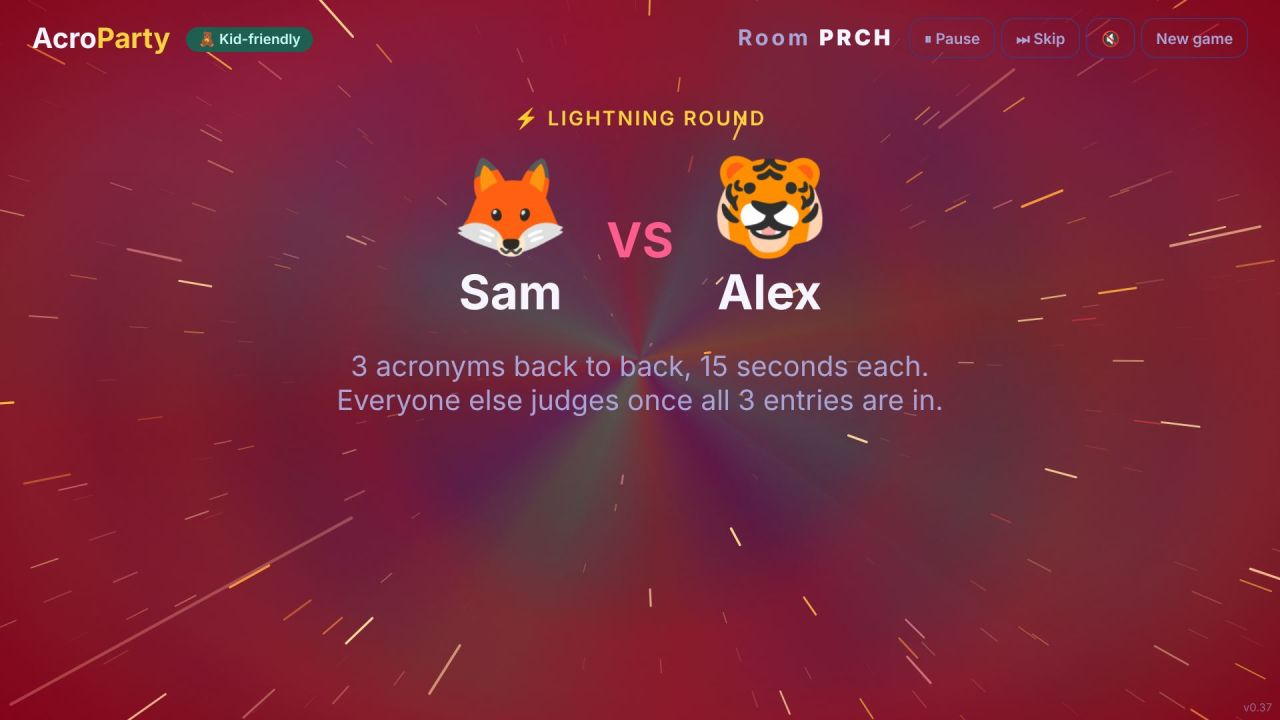
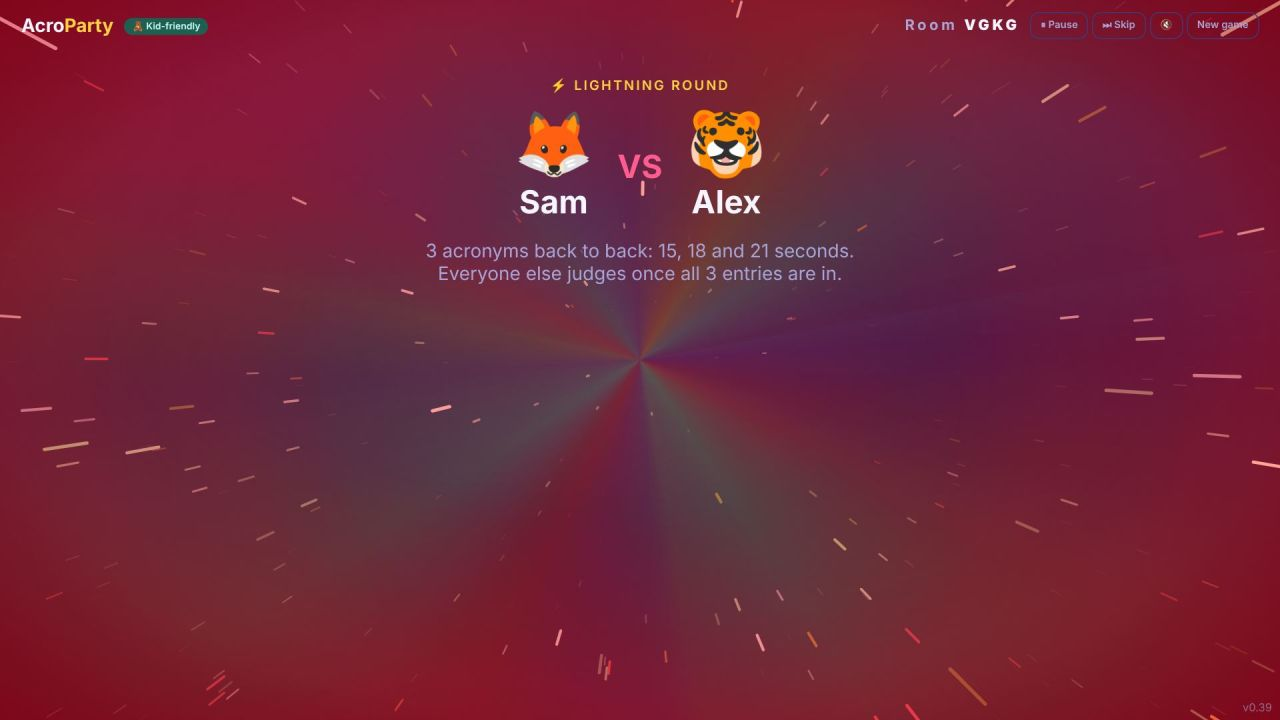
Add files via upload

diff --git a/public/play.js b/public/play.js
@@ -106,16 +106,38 @@
     });
   }
 
+  function onGone(why) {
+    if (!seat) return;
+    const code = seat.code;
+    Acro.store.del('acro-player');
+    seat = null;
+    if (window.KeepAwake) KeepAwake.disable();
+    showCode(why === 'room' ? '' : code, why === 'room' ? 'That game has ended.' : 'Your seat expired. Join again.');
+  }
+
   function connect() {
     if (disconnect) disconnect();
     app.innerHTML = '<div class="middle muted">Connecting…</div>';
-    disconnect = Acro.connect({ code: seat.code, role: 'player', token: seat.token }, onState, (why) => {
-      const code = seat.code;
-      Acro.store.del('acro-player');
-      seat = null;
-      showCode(why === 'room' ? '' : code, why === 'room' ? 'That game has ended.' : 'Your seat expired. Join again.');
-    });
+    renderedKey = null;
+    disconnect = Acro.connect({ code: seat.code, role: 'player', token: seat.token }, onState, onGone);
+    // Keep the phone's screen on while playing (see keepawake.js).
+    if (window.KeepAwake) KeepAwake.enable();
   }
+
+  // Coming back to the game (phone unlocked, switched back from another app, or the network came back):
+  // the old connection is often dead by then, so open a fresh one right away instead of waiting for it to
+  // time out. The screen stays as it is (including anything typed), and updates as soon as the game answers.
+  let lastStateAt = Date.now();
+  function resync() {
+    if (!seat) return;
+    if (disconnect) disconnect();
+    disconnect = Acro.connect({ code: seat.code, role: 'player', token: seat.token }, onState, onGone);
+  }
+  document.addEventListener('visibilitychange', () => {
+    if (document.visibilityState === 'visible' && Date.now() - lastStateAt > 2000) resync();
+  });
+  window.addEventListener('pageshow', (e) => { if (e.persisted) resync(); });
+  window.addEventListener('online', resync);
 
   // ---------- game screens ----------
   function onState(s) {
@@ -132,6 +154,7 @@
       return;
     }
     state = s;
+    lastStateAt = Date.now();
     document.getElementById('paused').classList.toggle('hidden', !s.paused);
     top.innerHTML = `<div class="me"><span class="avatar">${s.me.avatar}</span><span>${esc(s.me.name)}</span></div>
       <span class="badge ${s.mode}">${s.mode === 'kid' ? '🧸' : '18+'}</span><span class="score">${s.me.score} pts</span>
@@ -217,10 +240,10 @@
 
     bonus_intro: (s) => {
       const [a, b] = s.bonus.finalists;
-      const secs = s.lightningSecs;
+      const secs = s.lightningTimes;
       return s.bonus.role === 'finalist'
         ? `<div class="middle"><div class="bigicon">⚡</div><h1>You're in the lightning round!</h1>
-           <p class="muted">${a.avatar} ${esc(a.name)} vs ${b.avatar} ${esc(b.name)}<br>3 acronyms, ${secs} seconds each. Think fast!</p></div>`
+           <p class="muted">${a.avatar} ${esc(a.name)} vs ${b.avatar} ${esc(b.name)}<br>3 acronyms: ${secs.join(', ').replace(/, (\d+)$/, ' and $1')} seconds. Think fast!</p></div>`
         : `<div class="middle"><div class="bigicon">⚖</div><h1>You're a judge!</h1>
            <p class="muted">${a.avatar} ${esc(a.name)} vs ${b.avatar} ${esc(b.name)}<br>You'll vote once all 3 entries are in.</p></div>`;
     },

diff --git a/public/keepawake.js b/public/keepawake.js
@@ -1,0 +1,73 @@
+// Keeps the screen awake while a game is on, so phones (and the TV laptop) don't lock mid-round.
+// 1) The Screen Wake Lock API (Android Chrome, iPhone Safari 16.4+, desktop browsers) on secure (https) pages,
+//    such as the online version on Render.
+// 2) Otherwise (older phones, or http:// on a home network), a tiny silent video playing on a loop, which
+//    phones treat as "watching something" and so don't dim or lock. It's 16x16 pixels, muted and invisible.
+// Browsers only allow either after a tap, so it starts on the first tap (joining the game counts) and is
+// re-armed whenever the page comes back into view.
+(function () {
+  let wanted = false;
+  let lock = null;
+  let video = null;
+
+  async function requestLock() {
+    if (!('wakeLock' in navigator) || document.visibilityState !== 'visible') return false;
+    try {
+      lock = await navigator.wakeLock.request('screen');
+      lock.addEventListener('release', () => { lock = null; });
+      return true;
+    } catch (e) {
+      return false;
+    }
+  }
+
+  function playVideo() {
+    if (!video) {
+      video = document.createElement('video');
+      video.setAttribute('playsinline', '');
+      video.setAttribute('webkit-playsinline', '');
+      video.setAttribute('muted', '');
+      video.setAttribute('aria-hidden', 'true');
+      video.muted = true;
+      video.loop = true;
+      video.preload = 'auto';
+      // MP4 for phones (iPhone, Android); WebM for browsers without the MP4 video format.
+      for (const [src, type] of [['/keepawake.mp4', 'video/mp4'], ['/keepawake.webm', 'video/webm']]) {
+        const s = document.createElement('source');
+        s.src = src;
+        s.type = type;
+        video.appendChild(s);
+      }
+      video.style.cssText = 'position:fixed;left:0;bottom:0;width:2px;height:2px;opacity:.01;pointer-events:none;z-index:-10';
+      document.body.appendChild(video);
+    }
+    const p = video.play();
+    if (p && p.catch) p.catch(() => {});
+  }
+
+  async function arm() {
+    if (!wanted) return;
+    if (lock) return;
+    const ok = await requestLock();
+    if (!ok) playVideo();
+    else if (video) video.pause();
+  }
+
+  document.addEventListener('visibilitychange', () => {
+    if (document.visibilityState === 'visible') arm();
+  });
+  ['click', 'touchend', 'keydown'].forEach((ev) =>
+    document.addEventListener(ev, () => { if (wanted && !lock && (!video || video.paused)) arm(); }, { passive: true, capture: true })
+  );
+
+  window.KeepAwake = {
+    enable() { wanted = true; arm(); },
+    disable() {
+      wanted = false;
+      if (lock) lock.release().catch(() => {});
+      lock = null;
+      if (video) video.pause();
+    },
+    status() { return lock ? 'wake-lock' : video && !video.paused ? 'video' : 'off'; },
+  };
+})();

diff --git a/server.js b/server.js
@@ -210,7 +210,7 @@ setInterval(() => {
 }, 60 * 1000).unref();
 
 // ---------- HTTP helpers ----------
-const TYPES = { '.html': 'text/html; charset=utf-8', '.js': 'text/javascript; charset=utf-8', '.css': 'text/css; charset=utf-8', '.svg': 'image/svg+xml', '.png': 'image/png', '.json': 'application/json', '.webmanifest': 'application/manifest+json', '.mp3': 'audio/mpeg', '.jpg': 'image/jpeg' };
+const TYPES = { '.html': 'text/html; charset=utf-8', '.js': 'text/javascript; charset=utf-8', '.css': 'text/css; charset=utf-8', '.svg': 'image/svg+xml', '.png': 'image/png', '.json': 'application/json', '.webmanifest': 'application/manifest+json', '.mp3': 'audio/mpeg', '.jpg': 'image/jpeg', '.mp4': 'video/mp4', '.webm': 'video/webm' };
 const ROUTES = { '/': 'index.html', '/host': 'host.html', '/play': 'play.html', '/how-to-play': 'how.html' };
 
 function sendJson(res, status, obj) {
@@ -250,8 +250,21 @@ function serveStatic(req, res, pathname) {
   read(file, (err, buf) => {
     if (err) return sendJson(res, 404, { error: 'Not found' });
     // Music and tutorial pictures are big and rarely change, so browsers may keep them for a day; everything else is always fresh.
-    const cache = ['.mp3', '.jpg'].includes(path.extname(file)) ? 'public, max-age=86400' : 'no-store';
-    res.writeHead(200, { 'Content-Type': TYPES[path.extname(file)] || 'application/octet-stream', 'Cache-Control': cache });
+    const cache = ['.mp3', '.jpg', '.mp4', '.webm'].includes(path.extname(file)) ? 'public, max-age=86400' : 'no-store';
+    const type = TYPES[path.extname(file)] || 'application/octet-stream';
+    // Byte ranges: iPhones only play video (and seek audio) when the server supports them.
+    const m = /^bytes=(\d*)-(\d*)$/.exec(req.headers.range || '');
+    if (m && (m[1] || m[2])) {
+      let start = m[1] ? Number(m[1]) : Math.max(0, buf.length - Number(m[2]));
+      let end = m[1] && m[2] ? Math.min(Number(m[2]), buf.length - 1) : buf.length - 1;
+      if (start >= buf.length || start > end) {
+        res.writeHead(416, { 'Content-Range': `bytes */${buf.length}` });
+        return res.end();
+      }
+      res.writeHead(206, { 'Content-Type': type, 'Cache-Control': cache, 'Accept-Ranges': 'bytes', 'Content-Range': `bytes ${start}-${end}/${buf.length}`, 'Content-Length': end - start + 1 });
+      return res.end(buf.subarray(start, end + 1));
+    }
+    res.writeHead(200, { 'Content-Type': type, 'Cache-Control': cache, 'Accept-Ranges': 'bytes', 'Content-Length': buf.length });
     res.end(buf);
   });
 }

diff --git a/lib/game.js b/lib/game.js
@@ -8,10 +8,15 @@ const { checkLetters } = require('../public/shared/rules');
 const SPEED = Number(process.env.GAME_SPEED || 1);
 // Announcer holds: reveal phases wait for the TV to report that Gene finished talking (ANNOUNCE_MAX is the safety limit).
 const ANNOUNCE_MAX = 25000;
+// Extra seconds for each lightning acronym (3, 4 and 5 letters).
+const LIGHTNING_EXTRA = [0, 3, 6];
 const DUR = { reveal: 5000, vote: 30000, results: 25000, bonusIntro: 6000, bonusReveal: 3000, bonusVote: 30000, bonusResults: 16000 };
 const MAIN_LENGTHS = [3, 4, 5, 6, 7, 3, 4, 5];
 const BONUS_LENGTHS = [3, 4, 5];
+// How long a disconnected player's seat (and score) is kept: 2 minutes in the lobby, 10 minutes once a game is
+// under way, so a phone that locks or switches apps doesn't lose its place.
 const SEAT_HOLD_MS = 2 * 60 * 1000;
+const SEAT_HOLD_PLAYING_MS = 10 * 60 * 1000;
 const MIN_PLAYERS = 3;
 const MAX_PLAYERS = 10;
 const AVATARS = ['🦊', '🐸', '🐙', '🦄', '🐼', '🐯', '🦖', '🐝', '🐧', '🦉', '🐵', '🐳'];
@@ -196,7 +201,7 @@ class Room {
     if (p.streams > 0) return;
     p.connected = false;
     clearTimeout(p.dropTimer);
-    p.dropTimer = setTimeout(() => this.remove(p.id), SEAT_HOLD_MS);
+    p.dropTimer = setTimeout(() => this.remove(p.id), this.phase === 'lobby' ? SEAT_HOLD_MS : SEAT_HOLD_PLAYING_MS);
     this.onChange();
     this.checkEarlyEnd();
   }
@@ -246,12 +251,19 @@ class Room {
     this.onChange();
   }
 
+  // Lightning round entry time: 15 s (20 s with kids' extra time) for the 3-letter acronym,
+  // plus 3 s for the 4-letter one and 6 s for the 5-letter one.
   lightningMs() {
-    return this.lightningSecs() * 1000;
+    return this.lightningTimes()[Math.max(0, this.bonus ? this.bonus.index : 0)] * 1000;
   }
 
   lightningSecs() {
     return this.settings.extraTime > 0 ? 20 : 15;
+  }
+
+  lightningTimes() {
+    const base = this.lightningSecs();
+    return LIGHTNING_EXTRA.map((x) => base + x);
   }
 
   // 20 seconds for 3 letters, plus 5 seconds for each extra letter, plus any kids' extra time.
@@ -555,6 +567,7 @@ class Room {
       totalRounds: this.settings.rounds,
       minPlayers: MIN_PLAYERS,
       lightningSecs: this.lightningSecs(),
+      lightningTimes: this.lightningTimes(),
       answerSecs: this.round ? this.answerSecs(this.round.letters.length) : null,
     };
   }

diff --git a/public/announcer.js b/public/announcer.js
@@ -41,8 +41,8 @@
     fastest: { any: ['{name} was fastest on the buzzer.', 'Speed bonus goes to {name}!'] },
     leader: { any: ['{name} leads with {score} points.', '{name} is out in front with {score}!', 'At the top of the board: {name}, with {score}.'] },
     lightningIntro: {
-      kid: ["It's time for... the lightning round! {a} versus {b}! Three acronyms, {secs} seconds each. Everyone else, you're the judges!"],
-      adult: ["Ladies and gentlemen, it's time for the lightning round! {a} versus {b}! Three acronyms, {secs} seconds each. Everyone else, you're the judges."],
+      kid: ["It's time for... the lightning round! {a} versus {b}! Three acronyms: {secs} seconds. Everyone else, you're the judges!"],
+      adult: ["Ladies and gentlemen, it's time for the lightning round! {a} versus {b}! Three acronyms: {secs} seconds. Everyone else, you're the judges."],
     },
     lightning: { any: ['Lightning {n}: {spelled}!', 'Lightning round {n}. Your letters: {spelled}!'] },
     fiveLeft: { any: ['Five seconds!', 'Five!'] },
@@ -633,11 +633,11 @@
       }
       case 'bonus_intro': {
         const [a, b] = s.bonus.finalists;
-        say(line('lightningIntro', mode, { a: a.name, b: b.name, secs: s.lightningSecs }), { interrupt: true });
+        say(line('lightningIntro', mode, { a: a.name, b: b.name, secs: listNames(s.lightningTimes.map(String)) }), { interrupt: true });
         break;
       }
       case 'bonus_reveal':
-        say(line('lightning', mode, { n: s.bonus.index + 1, spelled: spell(s.letters) }) + ' ' + line('timeLimit', mode, { secs: s.lightningSecs }), { interrupt: true });
+        say(line('lightning', mode, { n: s.bonus.index + 1, spelled: spell(s.letters) }) + ' ' + line('timeLimit', mode, { secs: s.lightningTimes[s.bonus.index] || s.lightningSecs }), { interrupt: true });
         break;
       case 'bonus_vote':
         say(line('lightningVote', mode), { interrupt: true });

diff --git a/public/host.js b/public/host.js
@@ -79,6 +79,8 @@
 
   function connect() {
     if (disconnect) disconnect();
+    // Keep the TV/laptop screen from going to sleep during the game (see keepawake.js).
+    if (window.KeepAwake) KeepAwake.enable();
     disconnect = Acro.connect({ code: session.code, role: 'host', hostToken: session.hostToken }, onState, () => {
       Acro.store.del('acro-host');
       session = null;
@@ -313,7 +315,7 @@
         <div class="stage">
           <div class="kicker">⚡ Lightning round</div>
           <div class="vs"><div class="who"><span class="avatar">${a.avatar}</span>${esc(a.name)}</div><span class="mid">VS</span><div class="who"><span class="avatar">${b.avatar}</span>${esc(b.name)}</div></div>
-          <div class="muted" style="font-size:1.75rem">3 acronyms back to back, ${s.lightningSecs} seconds each.<br>Everyone else judges once all 3 entries are in.</div>
+          <div class="muted" style="font-size:1.75rem">3 acronyms back to back: ${s.lightningTimes.join(', ').replace(/, (\d+)$/, ' and $1')} seconds.<br>Everyone else judges once all 3 entries are in.</div>
         </div>`;
     },
 

diff --git a/public/how.html b/public/how.html
@@ -137,7 +137,7 @@
       <p>After the last round, the <b>top two players</b> (the most points, earned mostly from votes) face off in the Lightning Round.</p>
       <ul>
         <li>Three acronyms back to back: <b>3, then 4, then 5 letters</b>.</li>
-        <li>Just <b>15 seconds</b> for each one (20 with kids' extra time). Think fast!</li>
+        <li>Just <b>15 seconds</b> for the 3-letter one, <b>18</b> for 4 letters and <b>21</b> for 5 letters (5 more each with kids' extra time). Think fast!</li>
         <li>Answers stay hidden until both finalists have entered all three.</li>
       </ul>
     </div>

diff --git a/public/play.html b/public/play.html
@@ -66,6 +66,7 @@
 <div id="paused" class="paused-banner hidden" style="text-align:center;padding:24px">⏸ Paused<br><span style="font-size:18px;font-weight:500">Waiting for the host to resume…</span></div>
 <script src="/shared/rules.js"></script>
 <script src="/common.js"></script>
+<script src="/keepawake.js"></script>
 <script src="/background.js"></script>
 <script src="/sound.js"></script>
 <script src="/play.js"></script>

diff --git a/public/host.html b/public/host.html
@@ -138,6 +138,7 @@
 <div id="paused" class="paused-banner hidden"></div>
 <script src="/shared/qr.js"></script>
 <script src="/common.js"></script>
+<script src="/keepawake.js"></script>
 <script src="/background.js"></script>
 <script src="/sound.js"></script>
 <script src="/soundtrack.js"></script>

diff --git a/public/common.js b/public/common.js
@@ -1,6 +1,6 @@
 // Helpers shared by the TV and phone screens.
 window.Acro = {
-  VERSION: 'v0.39',
+  VERSION: 'v0.40',
   offset: 0,
 
   async post(url, body) {

diff --git a/README.md b/README.md
@@ -145,7 +145,7 @@ How it protects your credits: the key stays on the server, only the TV screen of
 - 25-second break after every voting round: the results and scores stay up with a "Next round in" countdown (room for future ad placements).
 - 30-second anonymous voting. Each phone gets its own shuffle, and you can't vote for yourself.
 - Scoring: 1 point per vote, a round-winner bonus equal to the number of letters, 1 point for the fastest answer with a vote, and 1 point for picking the winner. Players who skip voting don't get points for votes they received. If only one player answers, there's nothing to vote on, so that answer wins the round outright: the round-winner bonus plus the speed point.
-- Lightning round for the top two: 3, 4 and 5 letters back to back, 15 seconds each (20 with kids' extra time on). Judges vote only after all 3 entries are in, with 30 seconds to pick A or B for each pair. Most votes wins each pair, speed breaks ties, and best of 3 is crowned champion. The champion is always ranked first in the final standings, even with fewer points; the other finalist is second and everyone else follows by points.
+- Lightning round for the top two: 3, 4 and 5 letters back to back, with 15, 18 and 21 seconds to answer (20, 23 and 26 with kids' extra time on). Judges vote only after all 3 entries are in, with 30 seconds to pick A or B for each pair. Most votes wins each pair, speed breaks ties, and best of 3 is crowned champion. The champion is always ranked first in the final standings, even with fewer points; the other finalist is second and everyone else follows by points.
 - **Gene Woolery, the game show host** (named in homage to Gene Rayburn and Chuck Woolery), an original cartoon 1970s host with feathered hair, a burgundy tux with wide lapels, a gold bow tie and a long skinny microphone. His mouth has six shapes (smile, slightly open, open, wide "ah", round "oo", wide "ee") that follow the loudness of the AI voice; with the browser voice or captions they follow a natural syllable rhythm. He also blinks, nods while he talks and raises his eyebrows on big moments. Each caption is labeled with his name. He appears on the TV, with a deep announcer voice (he picks a male voice and lowers the pitch). He always finishes his sentence: when the game moves on, lines he hasn't started yet are dropped, and late timing lines (like "Five seconds!") are skipped. He welcomes players by name, calls out the letters, warns at 10 seconds left, reads the answers during voting, announces winners and the leader, hosts the lightning round and crowns the champion. Kid-friendly and Adult modes have different lines. In the lobby, choose Voice, Captions only or Off, and pick a voice. With an ElevenLabs key he speaks in a lifelike AI voice (see above); otherwise he uses the voices built into the browser, which differ between computers (Edge's "Natural" voices sound best). Browsers only allow sound after a click on the page, so if you reload the TV screen, click the "turn on the announcer" button. His lines are in `public/announcer.js` if you want to write your own.
 - **Acro Party theme music** (your track, in `public/music`): the full intro plays when a room opens, then its main section loops seamlessly in the lobby. The final standings bring the theme back from the top, so the show opens and closes with it. Answer rounds loop a lighter 4-bar section from the opening of the theme. The lightning round uses a percussion-heavy remix of the theme made from your track: sped up to 145 bpm and raised a semitone, with the brass pulled back about 14 dB and a big drum layer (kick, claps, hi-hats, 16th-note shaker, deep tom hits on every bar and tom fills). Replace a file with your own (same name) to change it; loop points are set in `public/sound.js` (`FILES`).
 - **Music and sound effects**, generated live in the browser for the other moments (voting and results). Game-show style music played by a synthesized band (brass, organ, electric piano, vibraphone, strings, upright bass, jazz drums and timpani) with studio reverb: a swinging big-band theme in the lobby, soft vibraphone "thinking" music while answering, funky voting music, a brassy results tune, a tense strings-and-timpani lightning round and a champion fanfare. Effects include letter pops, whooshes, a ding when someone submits, a blip for each vote, a buzzer when time runs out, a fanfare for the round winner, a drumroll and a champion fanfare. Music dips automatically while Gene talks.
@@ -154,7 +154,8 @@ How it protects your credits: the key stays on the server, only the TV screen of
 - **Phones** play a ding when you submit and a blip when you vote, and tick and buzz in your hand for the last 5 seconds if you haven't answered yet. Each phone has its own 🔊 mute button.
 - **Trippy space background** on every screen: turning psychedelic color swirls, nebula glows and a starfield drifting toward you. It warps to light speed when new letters appear. In the lightning round it goes into hyperdrive with red urgency shading (red edges throbbing on the beat, red swirls and nebula): red-orange stars at about 6 times normal speed, shockwave rings, a throbbing nebula and shaking, red-glowing letter tiles, all pulsing in time with the music (about once a second, so it's intense without strobing). It stays still for anyone whose device is set to reduce motion.
 - Host controls: pause (a big **▶ Resume game** button appears on the pause screen; the space bar also pauses and resumes), skip, remove a player, change settings, play again.
-- Phones rejoin automatically if they lock or drop off; seats are held for 2 minutes.
+- **Phones stay awake:** while you're in a game, phones (and the TV laptop) keep their screens on, using the browser's screen wake lock on the online (https) version and a tiny silent, invisible looping video on older phones or a home network. It starts with the tap that joins the game.
+- **Quick return:** if a phone does lock or switch apps, the game reconnects the moment you come back (it doesn't wait for the old connection to time out), keeping anything you'd typed. Seats and scores are held for 10 minutes during a game (2 minutes in the lobby).
 
 ## Files
 

diff --git a/CHANGELOG.md b/CHANGELOG.md
@@ -5,6 +5,7 @@ The version shows in the bottom-right corner of every screen.
 
 | Version | Date | Changes |
 | --- | --- | --- |
+| v0.40 | Oct 26, 2026 | Lightning round: 15 s for the 3-letter acronym, 18 s for 4 letters and 21 s for 5 letters (20, 23 and 26 with kids' extra time); the TV, phones, Gene and How to Play say so. Phones stay awake during a game (screen wake lock, or a tiny silent looping video where that isn't available), reconnect instantly when unlocked or switched back to, and keep their seat and score for 10 minutes during a game. The server now supports byte ranges (needed for video on iPhones). |
 | v0.39 | Oct 20, 2026 | The TV screen now scales with the display size (1rem = 16px at 1920x1080, proportionally smaller or larger elsewhere, up to 4K). Gene has his own strip along the bottom and shrinks on busy screens, so he never covers answers or scores. Automatic fit-to-screen shrinks the game area further if anything would still overflow. Results with many answers use two columns. Checked with a 10-player game at seven screen sizes from 800x600 to 3840x2160: every answer visible, nothing under Gene (the old layout failed 19 of 20 checks at 1280x720 and 960x540). |
 | v0.38 | Oct 16, 2026 | New How to Play page (`/how-to-play`), opened from a 📖 How to play button on the game-mode screen. Step-by-step tutorial with screenshots from a real game: joining, random letters, voting, scoring (votes, most-votes bonus, speed bonus), the Lightning Round face-off (3, 4, 5 letters, 15 seconds each) with everyone else judging, and the champion. |
 | v0.37 | Oct 9, 2026 | Smart TVs: new TV mode for smooth play on TV chips (no background blur, still backdrop, fewer stars at 30 fps, simpler lightning glow, recorded music only); turns on automatically in TV browsers and can be switched in the lobby. About 6x faster in a slowed-CPU test. New LG TV app (webOS .ipk) that opens the TV screen without the web browser and finds the game on the network automatically. Compatibility fixes for older TV browsers. |
